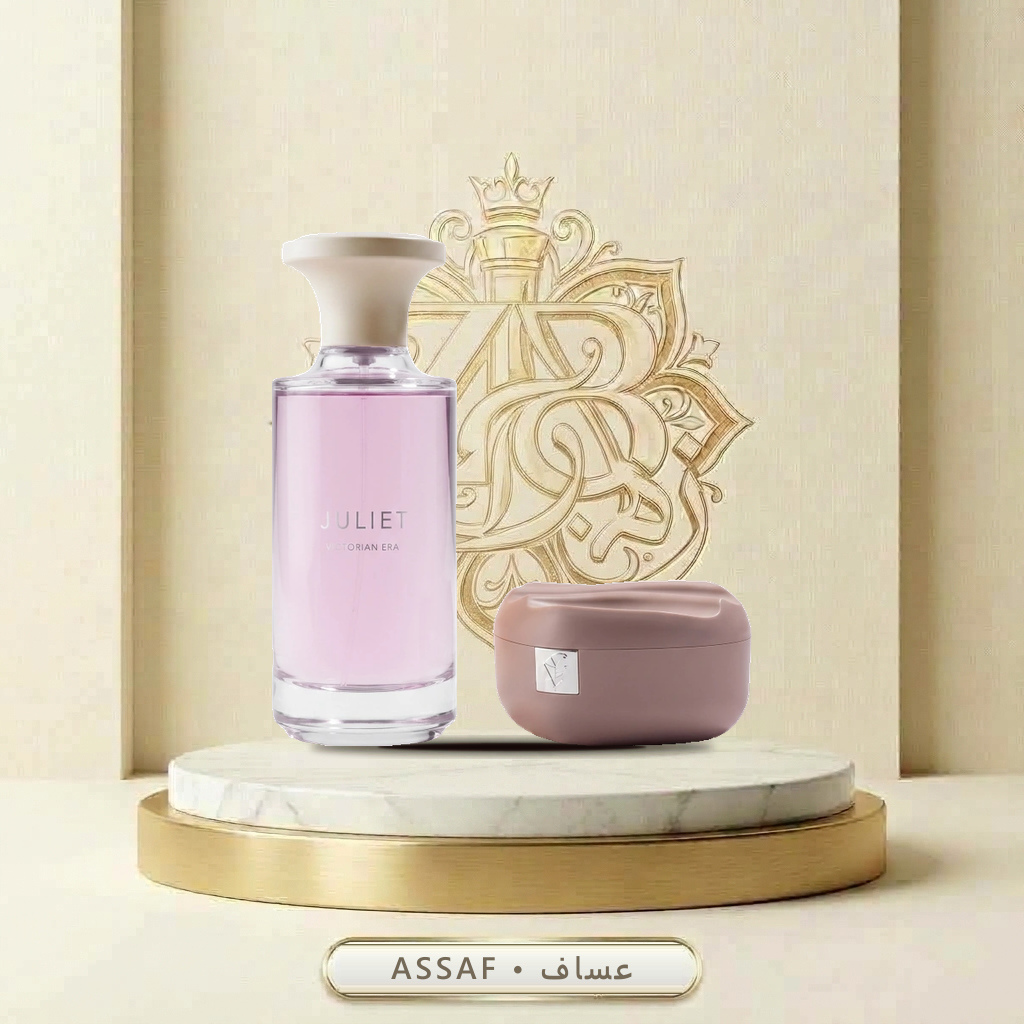
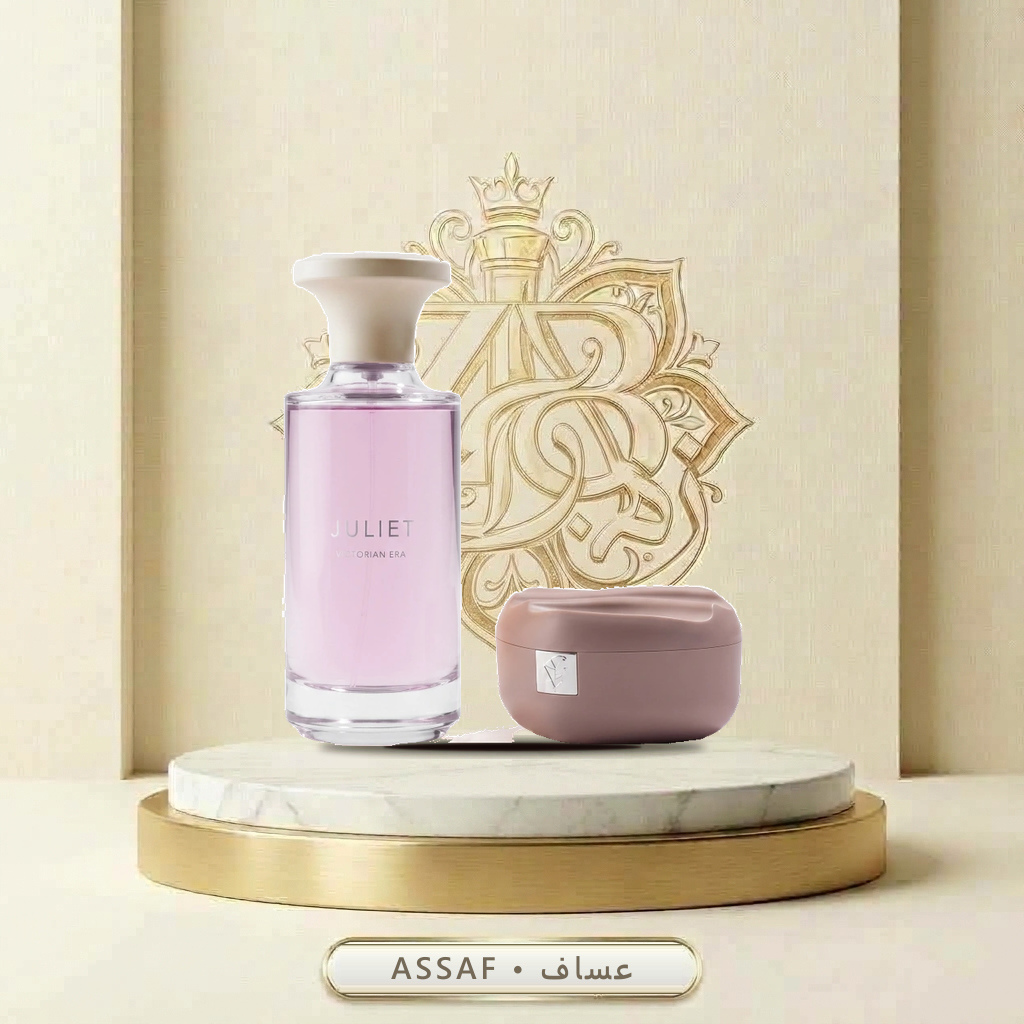
Complete Assaf PNG cutout polish for powder/collection sets and remaining bottles

diff --git a/scripts/build_assaf_catalog.js b/scripts/build_assaf_catalog.js
@@ -75,7 +75,7 @@ function getAssafCategoryType(item) {
   if (
     FEE_30_IDS.has(String(item.id)) ||
     FEE_24_IDS.has(String(item.id)) ||
-    /مجموعة|صندوق|بوكس|مليونية|ثلاثيه|ثلاثية|كراون ونوبل|هير قرايس|Collection/i.test(name) ||
+    /مجموعة|صندوق|بوكس|مليونية|ثلاثيه|ثلاثية|كراون ونوبل|هير قرايس|Collection|كولكشن|ديسكفري|وباودر/i.test(name) ||
     /بوكسات|مجموعات|الإهداء/i.test(catName)
   ) {
     return 'bundle';
@@ -272,8 +272,9 @@ async function extractCutoutSpotless(rawBuf, sid, isBundle = false) {
       }
     }
 
-    if (maxY > minY + 50) {
-      const objH = maxY - minY;
+    const objW = maxX - minX;
+    const objH = maxY - minY;
+    if (objH > 50 && objW <= objH * 0.52) {
       // Measure top of cap (top 1% to 5%) where leftward studio shadow hasn't started
       let sumCapCenter = 0, capRows = 0;
       const cStart = minY + Math.max(2, Math.round(objH * 0.01));
@@ -329,32 +330,34 @@ async function extractCutoutSpotless(rawBuf, sid, isBundle = false) {
       if (rightMaxY < minY + objH * 0.7) rightMaxY = maxY;
 
       // Enforce right-to-left bottle symmetry to slice off any leftward studio shadow
-      for (let y = 0; y < h; y++) {
-        if (y > rightMaxY) {
-          for (let x = 0; x < w; x++) outData[(y * w + x) * 4 + 3] = 0;
-          continue;
-        }
-        let rX = -1;
-        for (let x = w - 1; x >= capCenterX; x--) {
-          if (outData[(y * w + x) * 4 + 3] >= 180) {
-            rX = x;
-            break;
+      if (Math.abs(capCenterX - (minX + maxX) / 2) <= objW * 0.16) {
+        for (let y = 0; y < h; y++) {
+          if (y > rightMaxY) {
+            for (let x = 0; x < w; x++) outData[(y * w + x) * 4 + 3] = 0;
+            continue;
+          }
+          let rX = -1;
+          for (let x = w - 1; x >= capCenterX; x--) {
+            if (outData[(y * w + x) * 4 + 3] >= 180) {
+              rX = x;
+              break;
+            }
+          }
+          if (rX <= capCenterX) {
+            for (let x = 0; x < w; x++) outData[(y * w + x) * 4 + 3] = 0;
+            continue;
+          }
+          const halfW = rX - capCenterX;
+          const symLeftX = capCenterX - halfW;
+          for (let x = 0; x < symLeftX; x++) {
+            outData[(y * w + x) * 4 + 3] = 0;
           }
         }
-        if (rX <= capCenterX) {
-          for (let x = 0; x < w; x++) outData[(y * w + x) * 4 + 3] = 0;
-          continue;
-        }
-        const halfW = rX - capCenterX;
-        const symLeftX = capCenterX - halfW;
-        for (let x = 0; x < symLeftX; x++) {
-          outData[(y * w + x) * 4 + 3] = 0;
-        }
       }
-
-      // Fill any interior holes (e.g. white labels on bottle)
-      fillInteriorHoles(outData, w, h);
     }
+
+    // Fill any interior holes (e.g. white labels on bottle)
+    fillInteriorHoles(outData, w, h);
   } else {
     // BUNDLE / PACKAGE:
     // Preserve light-colored boxes at 100% solid opacity while removing outer background & bottom floor shadows
